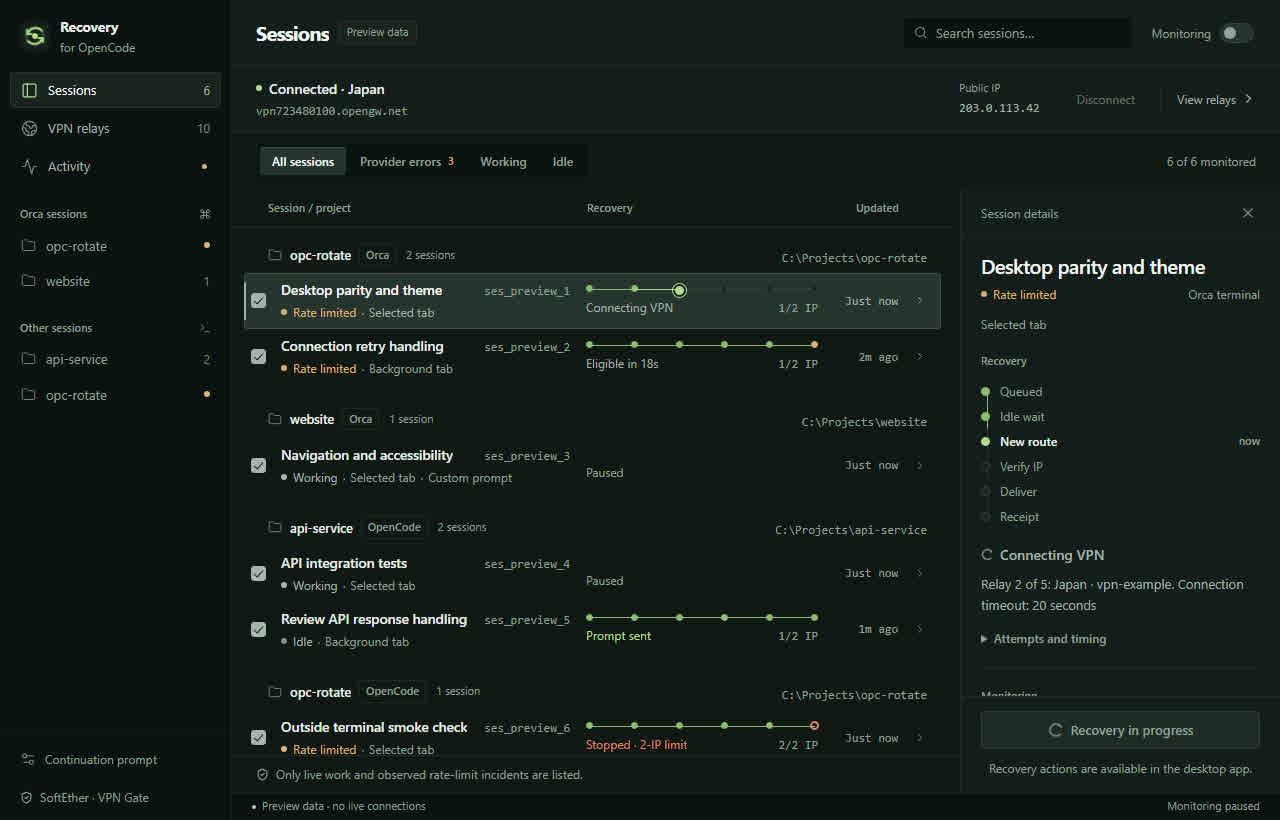
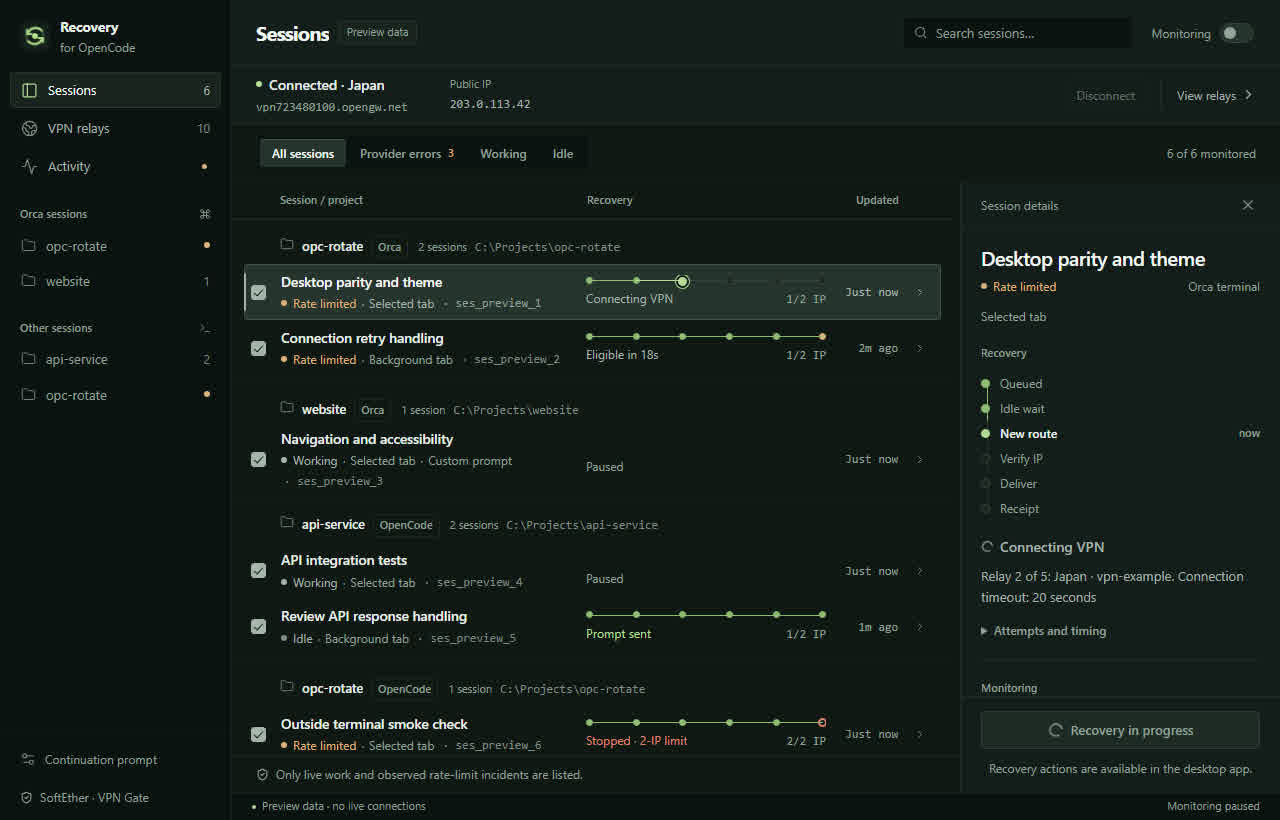
docs: record the reworked list layout and refresh the screenshot
The design document's grid and breakpoint description now match the
implementation, and the sample screenshot shows the new composition.

diff --git a/DESIGN.md b/DESIGN.md
@@ -197,7 +197,7 @@ components:
     textColor: "{colors.running}"
     rounded: "{rounded.pill}"
     height: "10px"
-    width: "232px"
+    width: "240px"
   route-track:
     backgroundColor: "transparent"
     textColor: "{colors.ink-muted}"
@@ -367,11 +367,13 @@ The window is a fixed three-column frame that never scrolls as a page — only i
 
 **Bands.** Toolbar `66px` → route bar `66px` → view controls `56px` → the scrolling body → status bar `28px`. Every band is `flex: 0 0 auto`; only the body scrolls. The bands sit on `enamel-850` and the working area on `enamel-900`, so the deepest plane is the one the operator works in.
 
-**The session grid.** A row is `1fr | 232px | 64px | 12px` with a `16px` gap: identity, route, updated, chevron. Rows are `56px` tall, inset `12px` from the pane with `36px` of left padding to clear the monitoring mark. The identity cell carries the title on the first line with the session id in mono set to the right, and the activity state on the second; the route cell carries the lane and its label. The sticky column header uses the *same* grid declaration inside the *same* scroll container, so header and rows cannot drift apart.
+**The session grid.** A row is `1fr | 240px | 56px | 12px` with a `16px` gap: identity, route, updated, chevron. Rows are `56px` tall, inset `12px` from the pane with `36px` of left padding to clear the monitoring mark. The identity column is the flexible one — it takes whatever the window gives it and the title wraps rather than pushing anything else. The identity cell carries the title on the first line, and the activity state, tab, and session id on the second, the id in monospace. The sticky column header uses the *same* grid declaration and the *same* content box as the rows, so header and rows cannot drift apart.
 
-**The route column.** `232px`, fixed, so every lane starts and ends on the same x. The lane's stations sit on the column edges, so the first station lines up with the label under it and the last with the column rule.
+**The route column.** `240px`, fixed, so every lane starts and ends on the same x. The lane's stations sit on the column edges, so the first station lines up with the label under it and the last with the column rule. The updated time takes a narrow `56px` column of its own and the chevron the last, so there is no dead track between the diagram and the time.
 
-**The ruled sheet.** Every project group is separated by a hairline that runs the full width, with the project name, its source tag, and the project path in mono set on the rule. There are no cards and no floating group boxes.
+**The ruled sheet.** Every project group is separated by a hairline that runs the full width, and the group annotates from the left: folder, project name, source tag, session count, then the project path in monospace — a legend along the rule rather than a label pushed to the far edge. There are no cards and no floating group boxes.
+
+**The route bar.** The connection facts sit together on the left — status and host, then the public address — and the actions on the right, so the slack falls at the end of the band instead of between two things that belong together.
 
 **Relays.** A full-width table with a sticky header on the canvas colour; cells are `58px` tall. Numeric columns are right-aligned, the address column is monospace, and the address column is dropped below 1250px.
 
@@ -379,9 +381,9 @@ The window is a fixed three-column frame that never scrolls as a page — only i
 
 **Dialog.** `min(540px, 100vw − 36px)` wide, capped at `100dvh − 40px` with internal scrolling.
 
-**Responsive.** Width drives the layout:
-- `1250px` — rail `208px`, inspector `296px`, route column `200px`.
-- `1100px` — the updated-time column is dropped.
+**Responsive.** Width drives the layout, and the identity column flexes at every step so nothing can overflow:
+- `1250px` — rail `200px`, inspector `280px`, route column `208px`.
+- `1100px` — the updated-time column is dropped and the route column narrows to `190px`.
 - `950px` — rail `184px`, inspector `264px`, route column `172px`, country codes hidden.
 - `760px` — the rail collapses to a `62px` icon column, the inspector becomes a full-width panel below the list, and the route column narrows to `132px`.
 
@@ -429,12 +431,12 @@ Borders are directional where they appear at all: a dark top edge and a faint li
 - **States:** default is secondary ink with a faint icon; hover raises the ground; active is `enamel-800` with a lime icon. Section labels are `11px` weight 600 in sentence case — never uppercase, never tracked.
 
 ### Session Rows
-- **Shape:** `7px` radius, `56px` minimum height, `1fr | 232px | 64px | 12px`.
+- **Shape:** `7px` radius, `56px` minimum height, `1fr | 240px | 56px | 12px`.
 - **Background:** transparent at rest, `enamel-850` on hover, `enamel-700` with a strong rule when selected, marked by a `2px` porcelain inset on the leading edge.
-- **Identity:** the title in ink with the session id in monospace set to the right of it, and the activity state beneath. The identifier is present because the product's whole claim is exact delivery to one session, and an exact claim needs the exact id visible.
+- **Identity:** the title in ink, with the activity state, tab, and session id on the second line, the id in monospace. The identifier is present because the product's whole claim is exact delivery to one session, and an exact claim needs the exact id visible.
 
 ### The Route Line
-- **Shape:** a `232px` horizontal lane of six stations, `10px` tall, with the station markers sitting on the column edges.
+- **Shape:** a `240px` horizontal lane of six stations, `10px` tall, with the station markers sitting on the column edges.
 - **States:** a travelled station is a solid `#8fbe73` dot on a solid segment; the current station is a `9px` lime ring on a lime segment; a future station is a hollow dot on a hairline; a held terminus is amber; a broken terminus is a vermilion square with the following segment *removed*, so the line visibly stops.
 - **Rule:** the lane's presence is the signal that a session is in recovery. A session that is only being watched shows no lane at all.
 

diff --git a/docs/ROADMAP.md b/docs/ROADMAP.md
@@ -49,6 +49,7 @@ Outcome: a source build and installer work on the target Windows setup.
 - [x] Record the product and the design system as durable artifacts. `PRODUCT.md` holds product purpose, capability and terminology truth, brand commitments, and the evidence boundaries; `DESIGN.md` holds the tokens, component behavior, and visual guardrails. `src/styles.css` stays the implementation authority, and the tool-side sidecar stays in the ignored `.impeccable/` directory.
 - [x] Complete the design system against the implementation and verify it mechanically. The documented token set covers every color, radius, and type size the UI uses, so the design detector reports no findings over `src/`, the artifact drift check is clean, and the project's detector hook is enabled with its configuration in the ignored `.impeccable/` directory.
 - [x] Replace the visual world with the enamel line. Surfaces come from the app icon's own green-black instead of neutral charcoal; the rounded icon tiles and the glass sidebar are gone; lime means live and only live, so the monitoring marks are porcelain; a vermilion critical tone separates stopped and failed from held; and every recovering session carries a six-station route line so the fleet's position is readable across rows, with a named track in the inspector and a broken line where a run stopped. Rows are 56px, identifiers are monospaced, and the stylesheet carries no color literal outside its token block. Browser checks at 1440 × 900, 980 × 660, and 390 × 844 report no findings, inspected text contrast clears WCAG AA on every ground, and the automated suite still passes.
+- [x] Rework the session-list layout. The identity column is now the flexible one and the route column is fixed, so the row reads as a table with no dead track: identity, the 240px route diagram, a narrow updated column, and the chevron. The sticky header shares the rows' exact content box so the columns cannot drift, project groups annotate from the left instead of pushing the path to the far edge, the route bar groups its facts together with the slack at the end of the band, and the session id sits on the metadata line. Every breakpoint was re-derived so no fixed column can overflow, and the detector reports no findings at 1440 × 900, 980 × 660, and 390 × 844.
 - [x] Add the user-selected MIT license and package/installer metadata. Preserve third-party license notices.
 - [x] Pin the tested Node/Rust toolchains and enforce consistent npm/Cargo/Tauri versions. Build with locked dependencies and reject preview fixtures in production assets.
 - [x] Run a clean npm install, all 40 automated tests, formatting, dependency audit (no reported vulnerabilities), production build, and NSIS packaging locally. Generate an installer plus its matching SHA-256 checksum under ignored `release-artifacts/v0.1.0/`.
